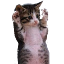
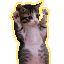
New background + render closest last

Changed region(s): [[0.125, 0.0, 0.8125, 1.0]]

diff --git a/app/play/game-service.js b/app/play/game-service.js
@@ -148,10 +148,24 @@ angular.module('cakeApp')
 
       // Adding enemies. Faster and faster, but not faster than MIN_FOE_TIME
       if((gameTime - lastFoe) > MIN_FOE_TIME && Math.random() < (1 - Math.pow(.995, gameTime + 2))) {
-        var ENEMY_POS = [{x: 130, y: 262}, {x: 269, y: 248}, {x: 405, y: 248}, {x: 537, y: 262},
-                         {x: 157, y: 191}, {x: 282, y: 177}, {x: 402, y: 177}, {x: 510, y: 191},
-                         {x: 170, y: 136}, {x: 290, y: 123}, {x: 396, y: 123}, {x: 497, y: 136},
-                         {x: 193, y: 91}, {x: 284, y: 77}, {x: 278, y: 77}, {x: 497, y: 91}];
+
+        var ENEMY_POS = [{x: 113, y: 370, z: 1},
+                         {x: 215, y: 366, z: 1},
+                         {x: 318, y: 365, z: 1},
+                         {x: 422, y: 366, z: 1},
+                         {x: 524, y: 370, z: 1},
+
+                         {x: 121, y: 323, z: 2},
+                         {x: 222, y: 320, z: 2},
+                         {x: 318, y: 319, z: 2},
+                         {x: 417, y: 320, z: 2},
+                         {x: 517, y: 323, z: 2},
+
+                         {x: 130, y: 288, z: 3},
+                         {x: 225, y: 286, z: 3},
+                         {x: 318, y: 285, z: 3},
+                         {x: 413, y: 286, z: 3},
+                         {x: 507, y: 288, z: 3}];
 
         lastFoe = gameTime;
         var i = Math.floor(Math.random() * ENEMY_POS.length);
@@ -184,7 +198,7 @@ angular.module('cakeApp')
       var bgImg = resources.get('play/img/bg.png');
       var catImg = resources.get('play/img/cat.png');
       var catCakedImg = resources.get('play/img/cat-caked.png');
-      var foeImg = resources.get('play/img/foe.png');
+      var foeImg = resources.get('play/img/foe-borg.png');
       var foeCakedImg = resources.get('play/img/foe-caked.png');
       var foeStrikeImg = resources.get('play/img/foe-strike.png');
       var cakeImg = resources.get('play/img/cake.png');
@@ -193,27 +207,33 @@ angular.module('cakeApp')
       context.drawImage(bgImg, 0, 0);
 
       // Enemies
-      for (var i = 0; i < foes.length; ++i) {
-        var imgX = foes[i].pos.x - foeImg.width / 2.0;
-        var imgY = foes[i].pos.y - foeImg.height / 2.0;
+      for (var z = 3; z > 0; --z) {
+        for (var i = 0; i < foes.length; ++i) {
+          if (foes[i].pos.z !== z) {
+            continue;
+          }
 
-        if (foes[i].type === 'foe') {
-          if (foes[i].strike === true) {
-            context.drawImage(foeStrikeImg, imgX, imgY);
+          var imgX = foes[i].pos.x - foeImg.width / 2.0;
+          var imgY = foes[i].pos.y - foeImg.height / 2.0;
+
+          if (foes[i].type === 'foe') {
+            if (foes[i].strike === true) {
+              context.drawImage(foeStrikeImg, imgX, imgY);
+            }
+            else if (foes[i].collision === true) {
+              context.drawImage(foeCakedImg, imgX, imgY);
+            }
+            else {
+              context.drawImage(foeImg, imgX, imgY);
+            }
           }
-          else if (foes[i].collision === true) {
-            context.drawImage(foeCakedImg, imgX, imgY);
+          else if (foes[i].type === 'cat') {
+            if (foes[i].collision === true) {
+              context.drawImage(catCakedImg, imgX, imgY);
+            }
+            else {
+              context.drawImage(catImg, imgX, imgY);
           }
-          else {
-            context.drawImage(foeImg, imgX, imgY);
-          }
-        }
-        else if (foes[i].type === 'cat') {
-          if (foes[i].collision === true) {
-            context.drawImage(catCakedImg, imgX, imgY);
-          }
-          else {
-            context.drawImage(catImg, imgX, imgY);
           }
         }
       }
@@ -268,7 +288,7 @@ angular.module('cakeApp')
       'play/img/cake.png',
       'play/img/foe-caked.png',
       'play/img/foe-strike.png',
-      'play/img/foe.png',
+      'play/img/foe-borg.png',
       'play/img/cat.png',
       'play/img/cat-caked.png'
     ]);
